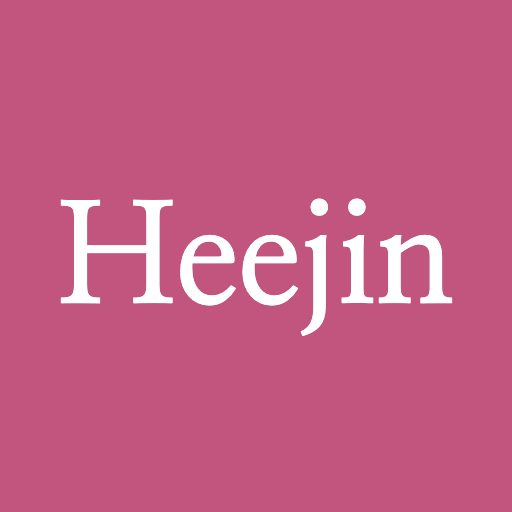
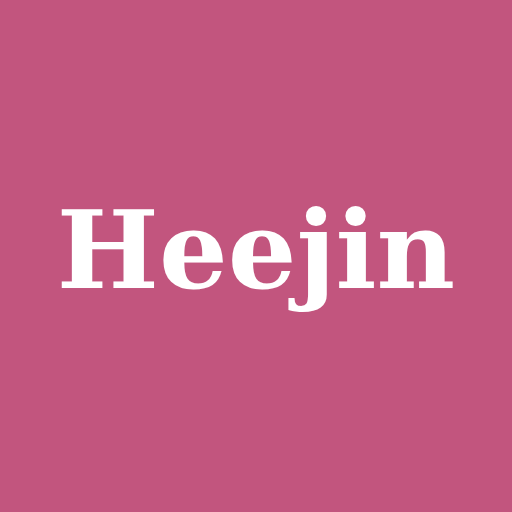
앱 아이콘 고치기

Changed region(s): [[0.0938, 0.375, 0.9062, 0.6562]]

diff --git a/assets/fonts.html b/assets/fonts.html
@@ -1,24 +1,12 @@
 <link rel="preconnect" href="https://fonts.googleapis.com">
 <link rel="preconnect" href="https://fonts.gstatic.com" crossorigin>
 <link rel="stylesheet" href="https://fonts.googleapis.com/css2?family=Nanum+Myeongjo:wght@400;700&family=Noto+Sans+KR:wght@400;500&family=Gowun+Batang:wght@400;700&family=Gowun+Dodum&family=Nanum+Pen+Script&family=Jua&display=swap">
+<!-- 홈 화면 앱: 저장소 이름(heejin-site)을 바꾸면 아래 주소 네 곳도 같이 바꿔 주세요 -->
+<link rel="manifest" href="/heejin-site/manifest.webmanifest">
+<link rel="apple-touch-icon" sizes="180x180" href="/heejin-site/icons/icon-180.png?v=4">
+<link rel="icon" type="image/png" sizes="192x192" href="/heejin-site/icons/icon-192.png?v=4">
+<meta name="theme-color" content="#C2557E">
 <meta name="apple-mobile-web-app-capable" content="yes">
 <meta name="mobile-web-app-capable" content="yes">
 <meta name="apple-mobile-web-app-title" content="Heejin">
 <meta name="apple-mobile-web-app-status-bar-style" content="default">
-<script>
-/* 홈 화면 앱: 어느 페이지에서든 아이콘과 앱 설정 파일을 찾을 수 있게 연결해요 */
-(function () {
-  function root() {
-    var m = document.querySelector('meta[name="quarto:offset"]');
-    if (m) return new URL(m.getAttribute('content') || './', location.href).href;
-    return location.href.split('#')[0].split('?')[0].replace(/(private|notes)\/[^\/]*$/, '').replace(/[^\/]*$/, '');
-  }
-  function add() {
-    var r = root(), v = '?v=3';
-    [['manifest', 'manifest.webmanifest'], ['apple-touch-icon', 'icons/icon-180.png' + v], ['icon', 'icons/icon-192.png' + v]].forEach(function (x) {
-      var l = document.createElement('link'); l.rel = x[0]; l.href = r + x[1]; document.head.appendChild(l);
-    });
-  }
-  if (document.readyState === 'loading') document.addEventListener('DOMContentLoaded', add); else add();
-})();
-</script>
